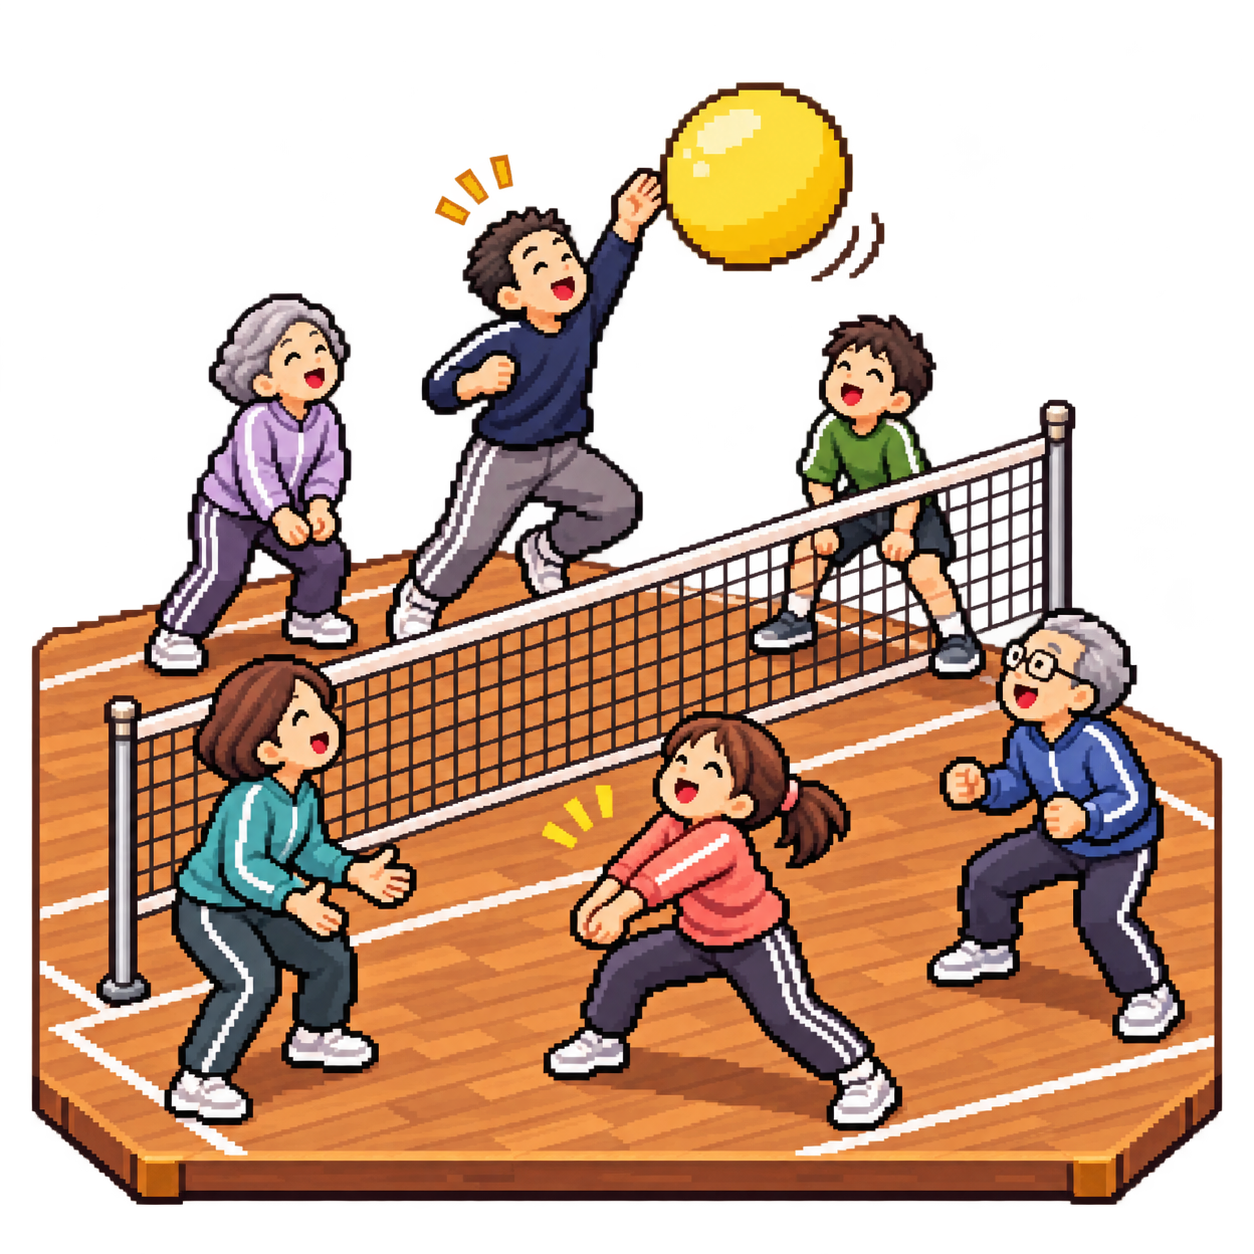
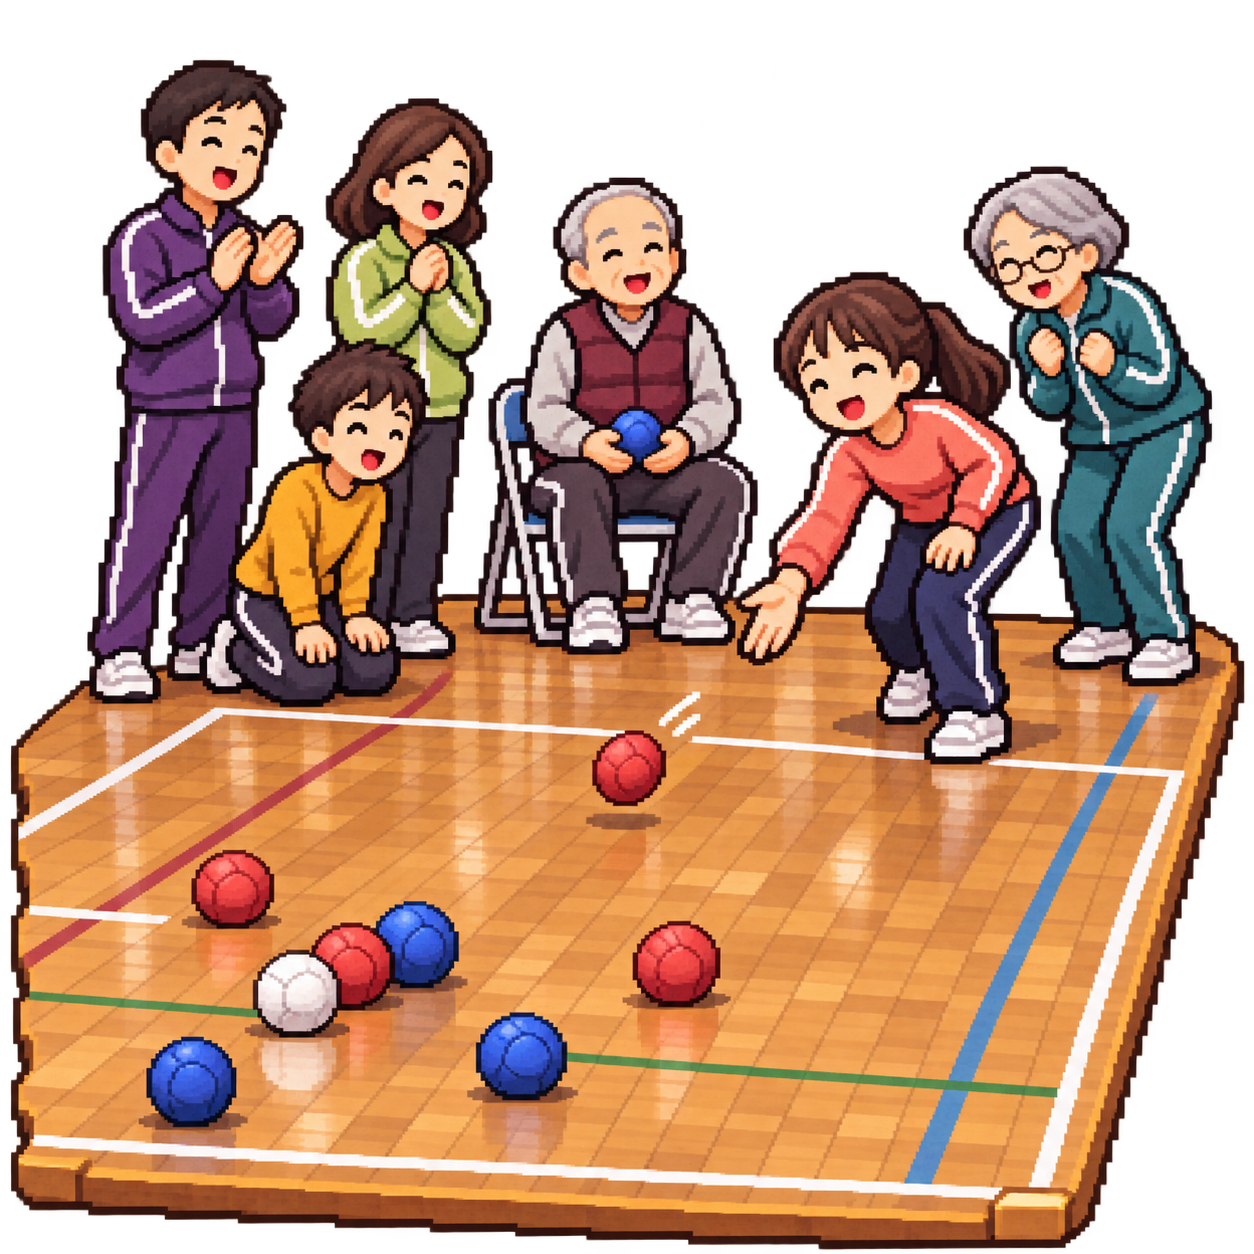
feat: replace the kanae winter sports picture for ticket 028

diff --git a/src/lib/illust/sprites.ts b/src/lib/illust/sprites.ts
@@ -82,7 +82,7 @@ export const PROP_SIZES: Record<PropId, { width: number; height: number }> = {
   "event-kanae-petanque": { width: 1235, height: 961 },
   "event-kanae-bunkasai": { width: 1249, height: 1136 },
   "event-kanae-ekiden": { width: 1224, height: 1190 },
-  "event-kanae-winter-sports": { width: 1192, height: 1123 },
+  "event-kanae-winter-sports": { width: 1235, height: 1191 },
   "karte-header-wide": { width: 2172, height: 424 },
   "karte-header-tall": { width: 1536, height: 691 },
   "karte-header-chushin-wide": { width: 2172, height: 384 },

diff --git a/docs/028_illustrated-game-ui.md b/docs/028_illustrated-game-ui.md
@@ -817,6 +817,11 @@
 - **注意**：05 の背景（`erabu-chushin-priorities.png`）とくらしの絵は差しかえていないので、前の町並みのまま。まさゆきさんから指示があれば同じ形で変える
 - **次にやること：伊賀良**（「2026-11-04 鼎の公開のあと」のとおり）
 
+## 次のセッションへの引き継ぎ（2026-11-04 鼎の冬季スポーツ大会の絵の差しかえのあと）
+
+- **差しかえた**：`event-kanae-winter-sports.png` を、体育館でボールを転がす競技を家族やお年寄りが応援する絵に変えた。2026-11-04 まさゆきさん OK。いろいろある種目の代表として「こういうのをやっている」と見せる絵で、種目を言い当てるものではない（まさゆきさん）。ピンの場所は体育館の上のまま
+- 2026-11-04 の時点で、次にやることは伊賀良のまま
+
 ## 完了条件
 
 - 上郷・春で、えらぶ 01〜05 とくらしが4枚の見本と並べて大きな違いがない
